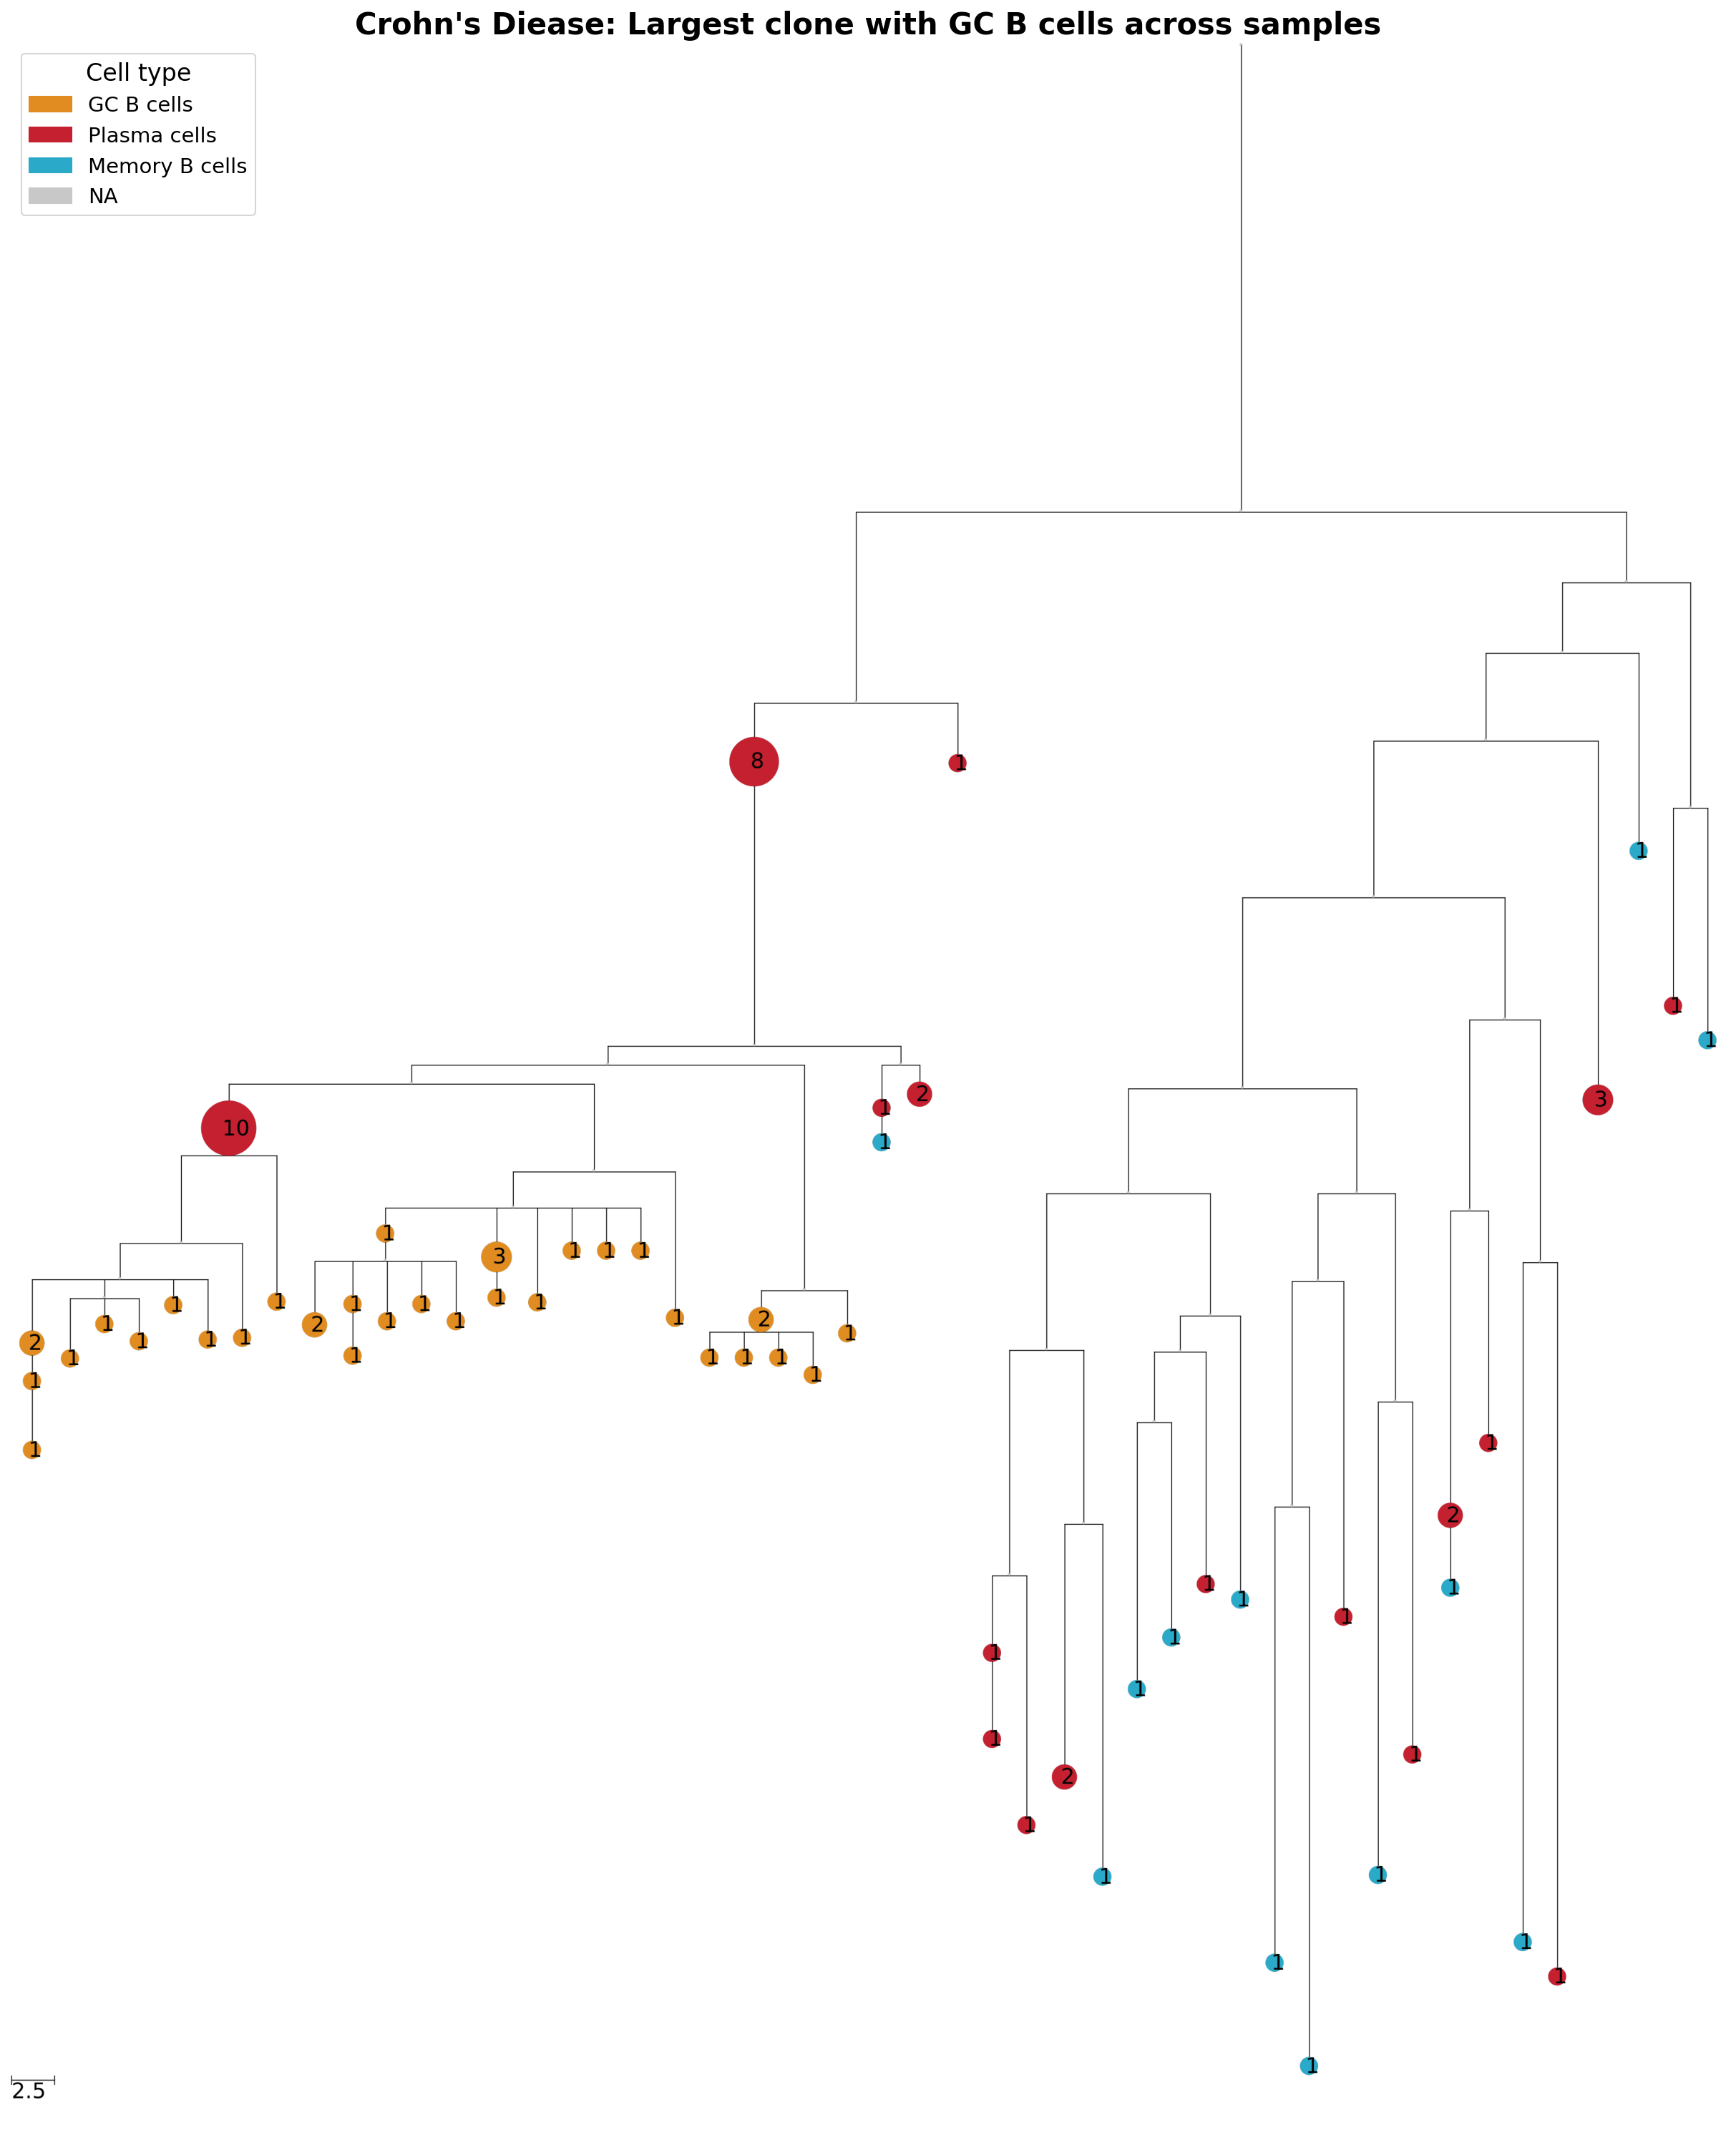
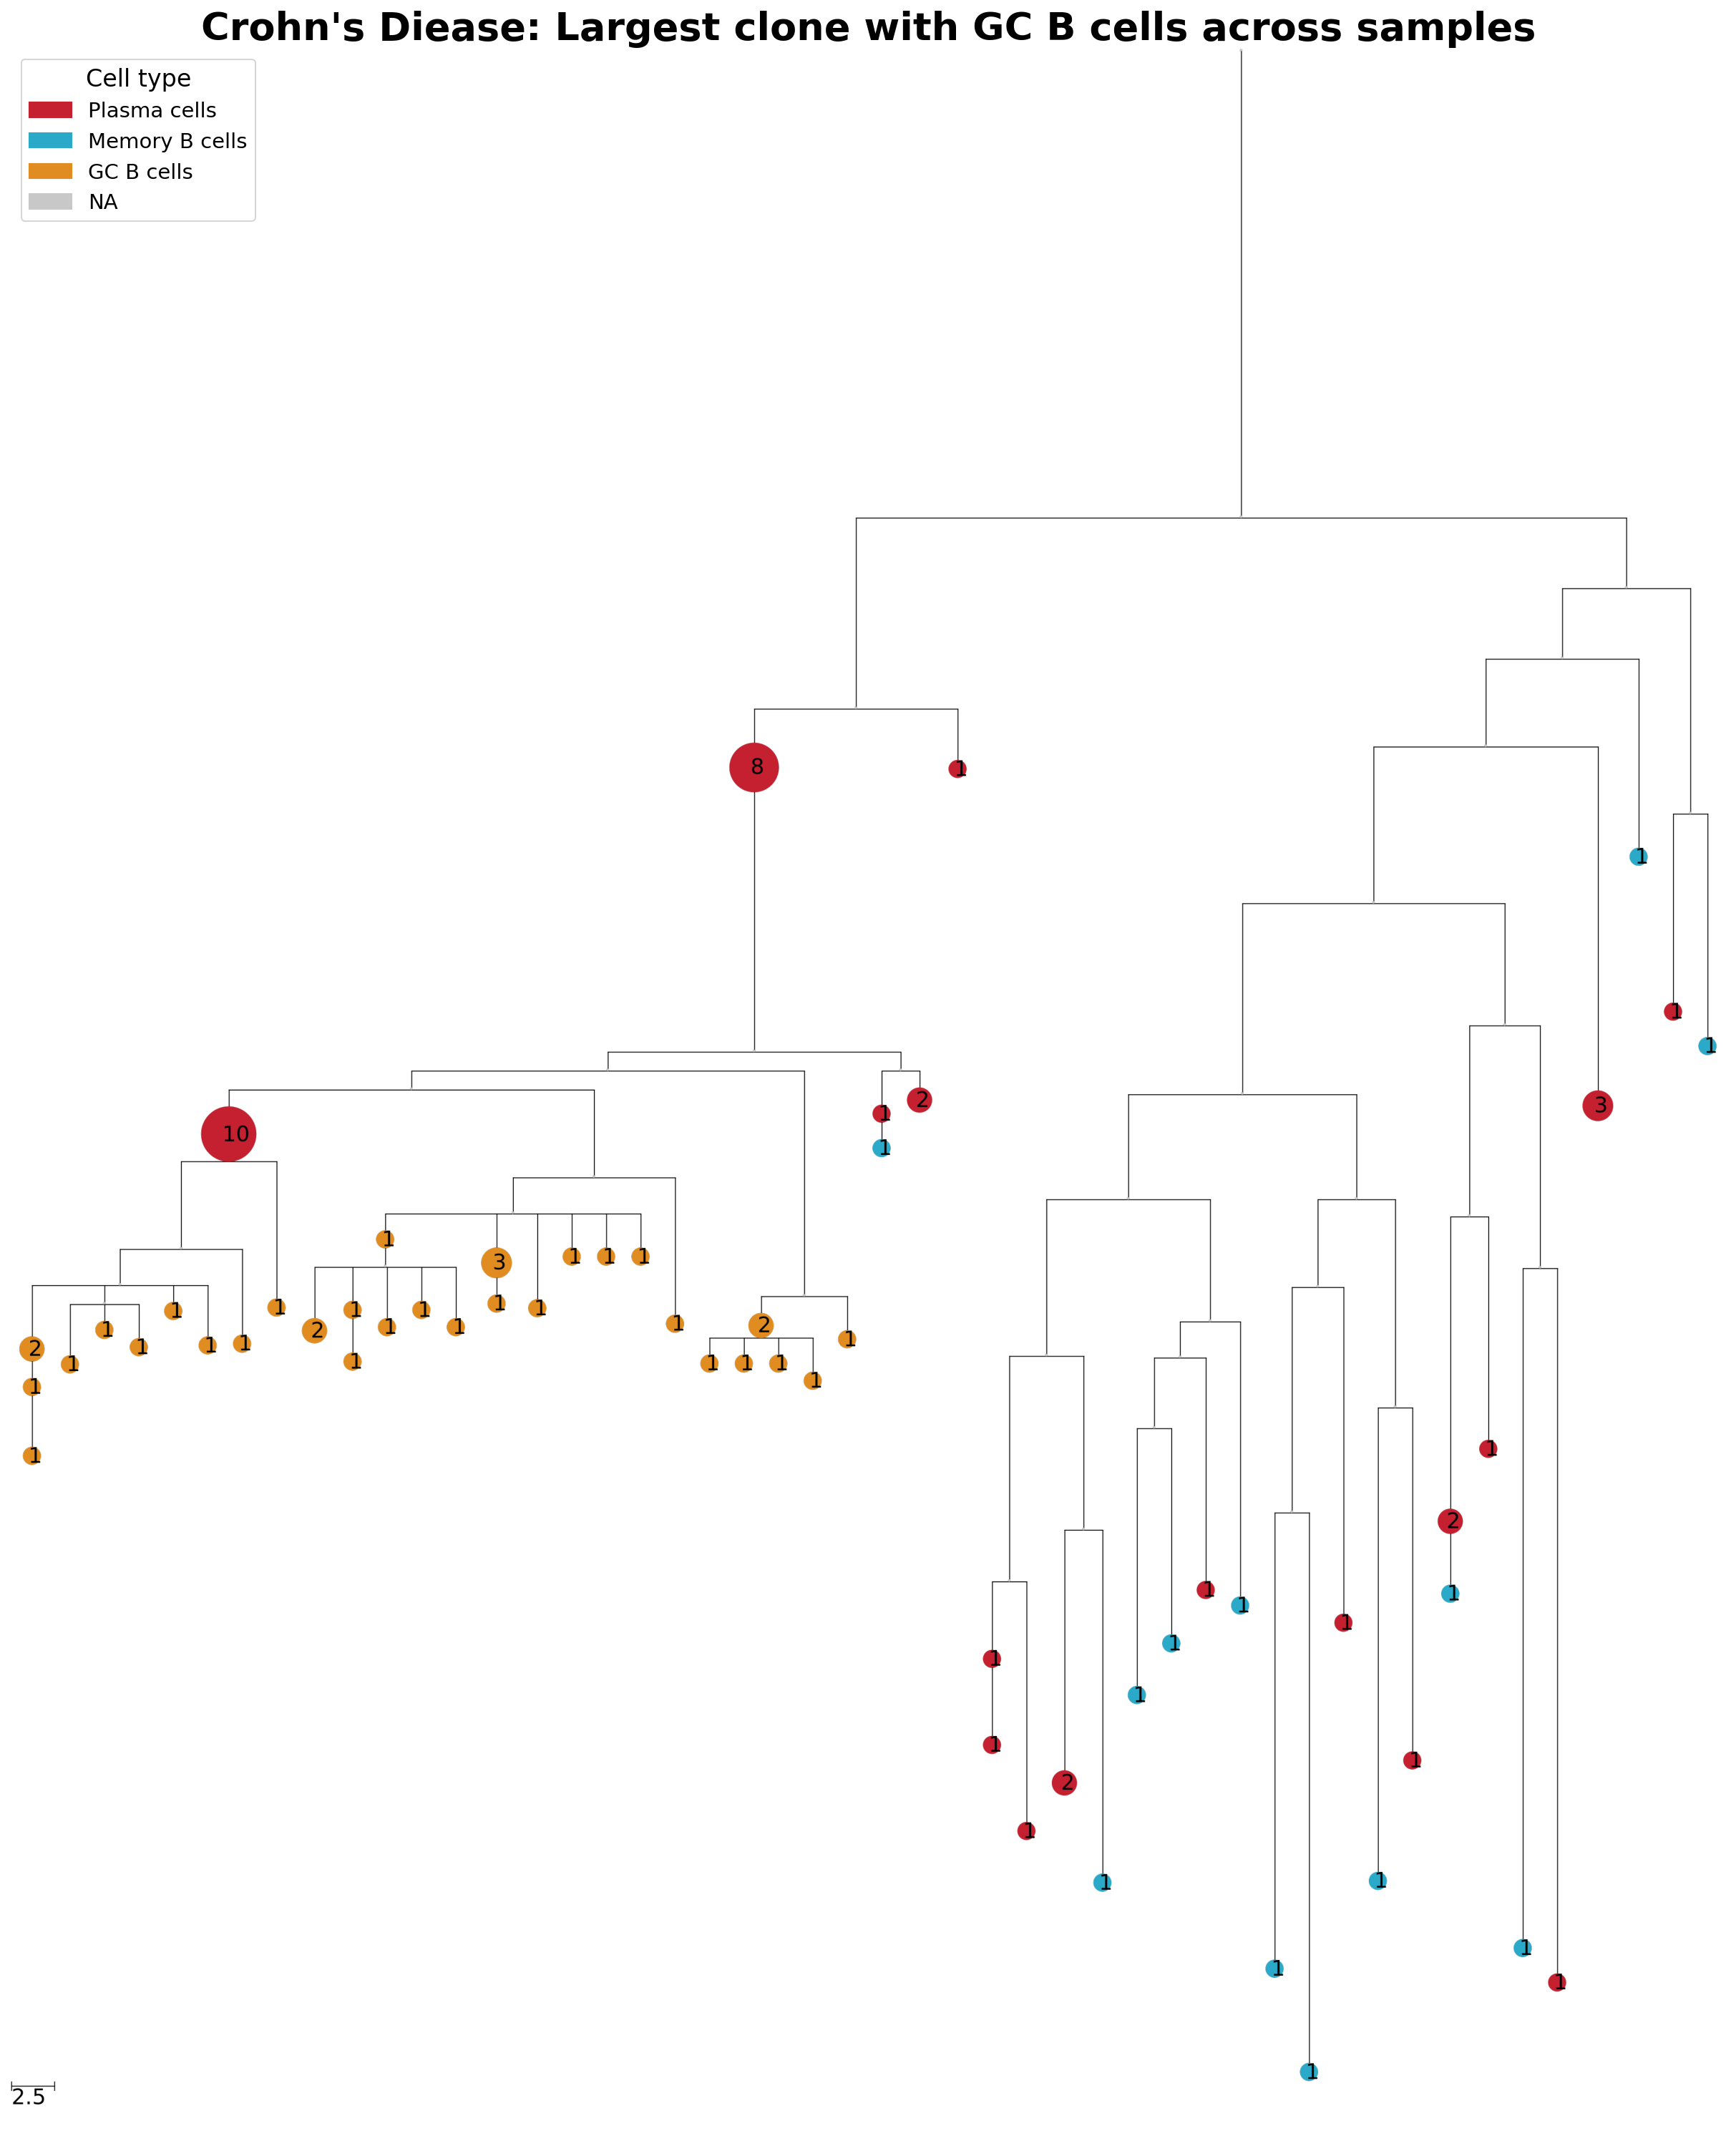
update plots

diff --git a/48_GCtree/script/04_custom_tree_visualization.py b/48_GCtree/script/04_custom_tree_visualization.py
@@ -582,7 +582,7 @@ def plot_tree(tree, df_meta, var, sample, custom_plot_path, color_list, counts_d
     ax.imshow(img)
     ax.axis("off")
     ax.legend(handles=patches, loc="upper left", title=var_translate[var], fontsize=14, title_fontsize=16)
-    ax.set_title(sample_name, fontsize=20, fontweight="bold")
+    ax.set_title(sample_name, fontsize=26, fontweight="bold")
     plt.savefig(png_path, bbox_inches="tight", dpi=150)
     plt.close()
 